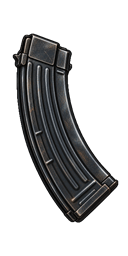
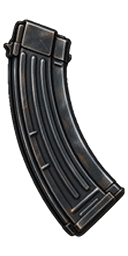
fix: 发布0.1.1库存贴图适配更新
优化9支枪械和9件供弹件的库存填充并同步装配锚点。保留占格、PPU、价格、属性和生产消耗，附中英文更新说明。

Changed region(s): [[0.0, 0.0625, 1.0, 0.9375]]

diff --git a/AttachmentVisuals010.cs b/AttachmentVisuals010.cs
@@ -62,23 +62,23 @@ namespace Attachments010
             {"coldwarmodern.rem870",new Anchor(55.4f,-12.9f,90.9f,-22.2f,125.1f,-15.0f)},
             {"coldwarmodern.m24",new Anchor(69.4f,-17.0f,114.2f,-26.9f,157.5f,-19.0f)},
             {"coldwarmodern.m82a1",new Anchor(69.1f,-15.0f,113.3f,-44.9f,156.0f,-19.1f)},
-            {"coldwarmodern.m249",new Anchor(71.9f,-9.5f,105.6f,-24.9f,138.1f,-15.4f)},
-            {"coldwarmodern.m60",new Anchor(70.3f,-8.4f,110.1f,-20.4f,148.5f,-13.6f)},
+            {"coldwarmodern.m249",new Anchor(71.1601633f,-8.3489213f,107.3793120f,-24.9001050f,142.3087580f,-14.6899592f)},
+            {"coldwarmodern.m60",new Anchor(69.1759296f,-7.0679648f,112.2019472f,-20.0406334f,153.7144868f,-12.6894545f)},
             // Reworked .22 sprites face right; samples use the same bbox method.
             {"rimfire22.markiv",new Anchor(27.6f,-13.5f,float.NaN,0,63.0f,-15.3f)},
             {"rimfire22.p22",new Anchor(27.6f,-6.4f,float.NaN,0,63.0f,-12.0f)},
             {"rimfire22.buckmark",new Anchor(27.6f,-13.6f,float.NaN,0,63.0f,-15.6f)},
             {"rimfire22.1022",new Anchor(55.1f,-10.1f,91.8f,-20.1f,127.0f,-12.6f)},
             {"local.deepspace010.winchester37",new Anchor(55.6f,-11.4f,90.5f,-19.8f,124.2f,-14.0f)},
-            {"local.deepspace010.fp45",new Anchor(28.2f,-7.4f,float.NaN,0,59.4f,-11.1f)},
-            {"local.deepspace010.texas_defender",new Anchor(28.3f,-6.2f,float.NaN,0,58.4f,-14.8f)},
-            {"local.deepspace010.tt33",new Anchor(28.0f,-8.4f,float.NaN,0,60.3f,-13.0f)},
-            {"local.deepspace010.svt40",new Anchor(59.9f,-19.0f,76.7f,-22.2f,92.9f,-20.4f)},
-            {"local.deepspace010.springfield1903",new Anchor(59.9f,-18.5f,76.9f,-22.5f,93.3f,-19.0f)},
-            {"local.deepspace010.beretta92fs",new Anchor(28.1f,-7.8f,float.NaN,0,59.4f,-11.2f)},
+            {"local.deepspace010.fp45",new Anchor(27.7457726f,-5.4605248f,float.NaN,0,62.6752187f,-9.6027988f)},
+            {"local.deepspace010.texas_defender",new Anchor(27.6945455f,-3.3338182f,float.NaN,0,62.7200000f,-13.3410909f)},
+            {"local.deepspace010.tt33",new Anchor(27.7104654f,-7.1018336f,float.NaN,0,62.6983357f,-12.0846262f)},
+            {"local.deepspace010.svt40",new Anchor(55.3746058f,-13.4625726f,91.0658921f,-20.2609129f,125.4824896f,-16.4368465f)},
+            {"local.deepspace010.springfield1903",new Anchor(55.3967213f,-12.4590164f,91.0688525f,-20.8524590f,125.4819672f,-13.5081967f)},
+            {"local.deepspace010.beretta92fs",new Anchor(27.6848908f,-5.8899563f,float.NaN,0,62.6752838f,-9.6908297f)},
             {"local.deepspace010.sks",new Anchor(55.6f,-13.9f,90.5f,-21.4f,124.2f,-15.2f)},
             {"local.deepspace010.mini14",new Anchor(55.8f,-15.3f,89.7f,-22.3f,122.4f,-18.0f)},
-            {"local.deepspace010.mp40",new Anchor(36.2f,-15.9f,float.NaN,0,67.4f,-16.6f)},
+            {"local.deepspace010.mp40",new Anchor(34.6822157f,-12.7206997f,float.NaN,0,78.3440233f,-13.7002915f)},
             {"local.deepspace010.m4a1",new Anchor(55.8f,-9.5f,89.7f,-22.1f,122.5f,-18.3f)},
             // BFG anchor estimates require calibration in game.
             {"local.deepspace010.bfg9000",new Anchor(75f,-6f,95f,-40f,136f,-25f)},

diff --git a/docs/RELEASE-0.1.1.md b/docs/RELEASE-0.1.1.md
@@ -1,0 +1,22 @@
+# Deep Space Gunsmith 0.1.1
+
+## 中文 · 库存贴图适配更新
+
+- 全量核对52支枪械、36件改装配件及22件供弹件，共110件物品的贴图、占格和显示比例。
+- 优化9支枪和9件供弹件的透明留白，让图案更贴合库存格子；SVT-40、M1903和MP 40的显示大小改善最明显。
+- 保持原占格、高清画布和长宽比例，不拉伸枪身、不裁掉主体。
+- 同步调整9支枪的配件装配锚点，配件本体大小不变；保护原有枪托及镀层资源。
+- 36件改装配件已符合合理填充比例，保留原图，避免重复采样。
+- 不改变物品价格、属性、生产配方或材料兑换量。
+
+## English · Inventory Artwork Fit Update
+
+- Audited inventory artwork, grid dimensions and display scale for 52 firearms, 36 attachments and 22 feed components: 110 items in total.
+- Reduced excessive transparent padding on 9 firearms and 9 feed components, making their artwork better fill the existing inventory cells. The SVT-40, M1903 and MP 40 see the most noticeable improvements.
+- Preserved grid sizes, high-resolution canvases and aspect ratios, without stretching weapons or cropping their silhouettes.
+- Remapped attachment mounting anchors on the 9 adjusted firearms while keeping attachment sizes unchanged; existing stock and plating resources remain protected.
+- Left the 36 well-fitted attachment inventory icons unchanged to avoid unnecessary resampling.
+- No changes to prices, stats, crafting recipes or material conversion rates.
+
+Steam Workshop: https://steamcommunity.com/sharedfiles/filedetails/?id=3829983019
+Source: https://github.com/fx12312344/DeepSpaceGunsmith

diff --git a/README.md b/README.md
@@ -4,6 +4,7 @@ A firearm collecting, customization, production and supply mod for **Probably St
 
 - Steam Workshop: https://steamcommunity.com/sharedfiles/filedetails/?id=3829983019
 - Bilingual project page: https://share.mork.chat/p/4c435c32-65e4-40b6-af76-58eba4e88856
+- Current release: **0.1.1** — [bilingual update notes](docs/RELEASE-0.1.1.md).
 - Game API target: **0.46D**; C# target: **.NET Standard 2.1**.
 - Mod identity: `local.coldwarmodern`; runtime assembly: `DeepSpaceGunsmith.dll`.
 
